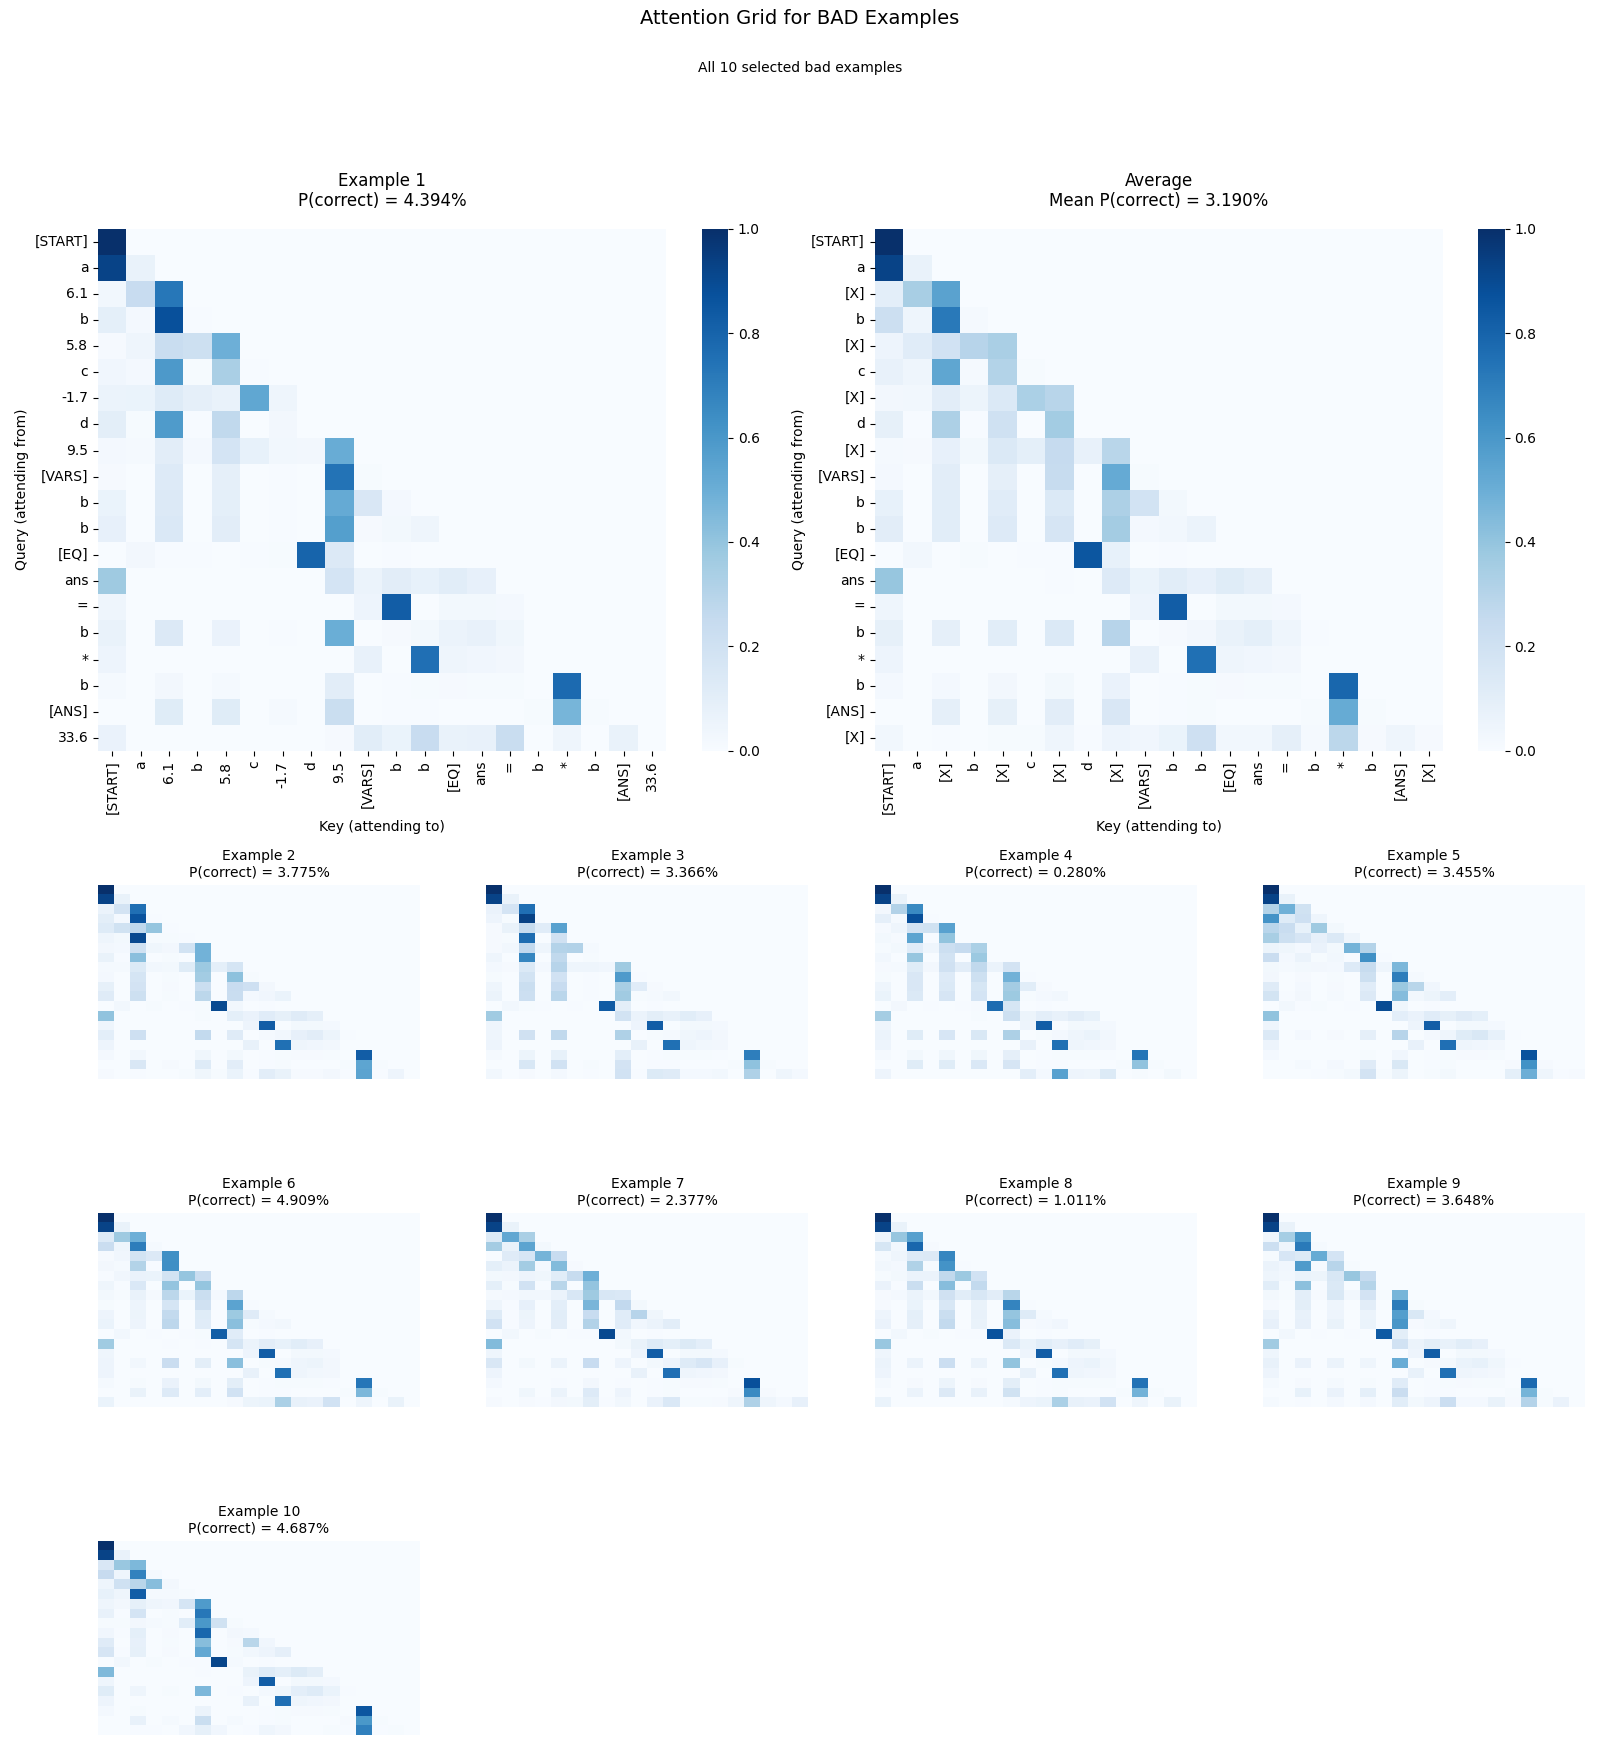
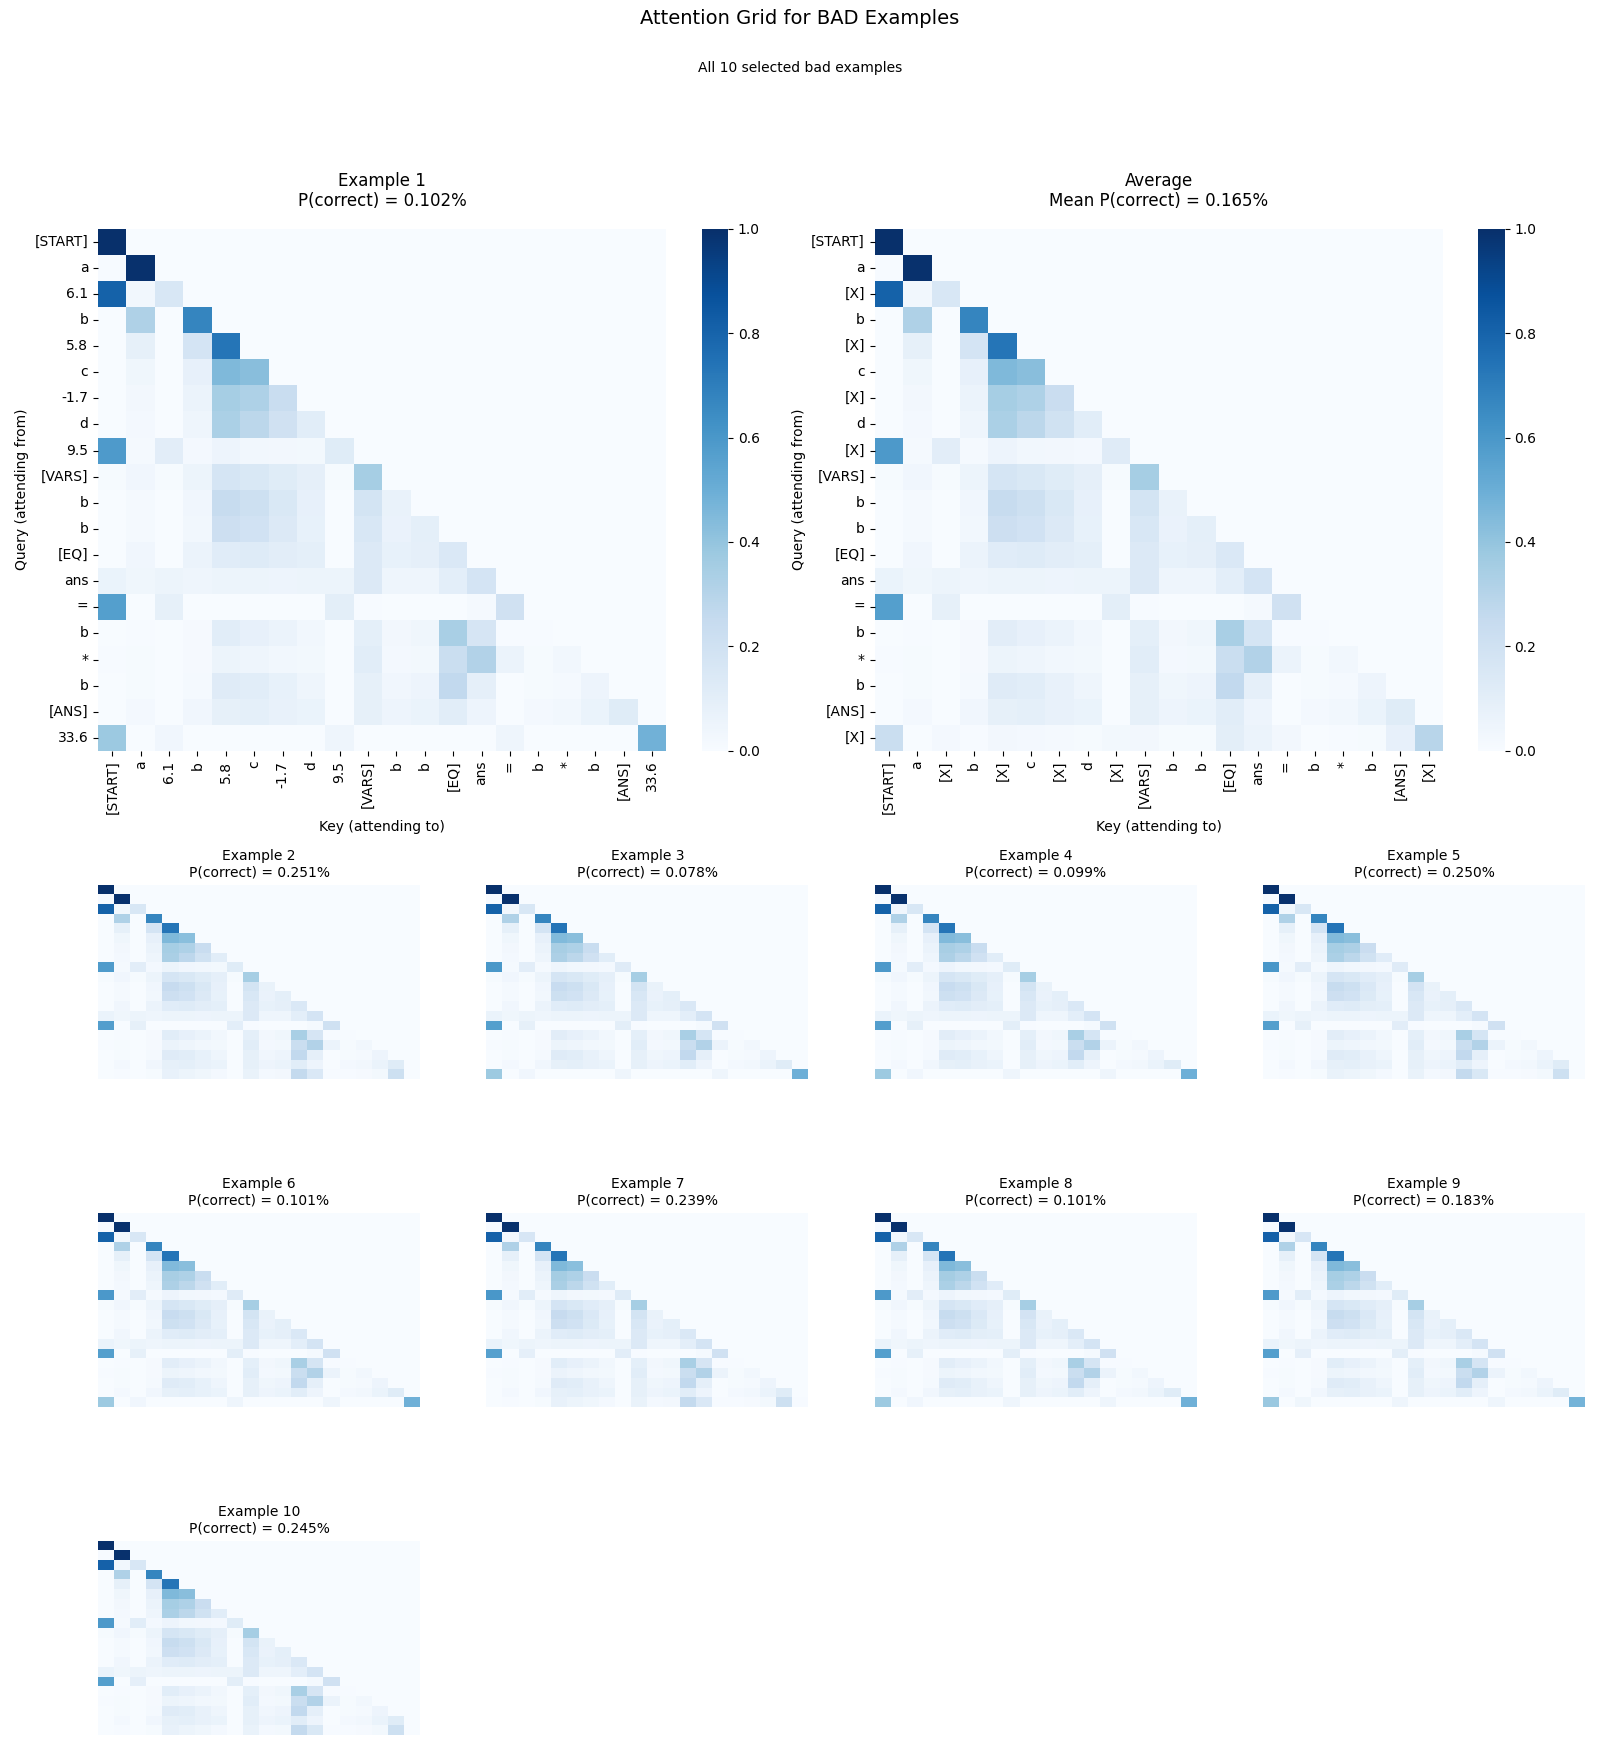
refactored into run_examples_and_plot

diff --git a/hw3/mathformer.py b/hw3/mathformer.py
@@ -687,6 +687,86 @@ def select_good_and_bad_examples(opt) -> tuple[list[int], list[int]]:
     return good, bad
 
 
+def run_examples_and_plot(
+    model,
+    opt,
+    mask,
+    example_indices: list[int],
+    example_kind: str,
+    include_top3: bool = False,
+):
+    print(f'{example_kind} Examples:')
+    avg = 0.0
+    token_labels = []
+    probabilities = []
+
+    last_10_scores.clear()
+
+    for i in example_indices:
+        trg = torch.zeros((1, opt.seqlen), dtype=torch.long)
+        ans = torch.zeros((1, opt.vocab_size), dtype=torch.float)
+        text = ''
+        for j in range(opt.seqlen):
+            trg[0, j] = opt.test[i * opt.seqlen + j]
+            if j == 19:
+                ans[0, trg[0, j]] = 1.0
+            text = decode_formula(opt, trg)
+
+        token_labels.append([opt.vocab[int(token_id)] for token_id in trg[0]])
+
+        trg = trg.cuda()
+        ans = ans.cuda()
+
+        [d_output, preds] = model(trg, mask)
+        logits = torch.exp(preds[:, 18, :])
+        numer = torch.sum(logits * ans, dim=1)
+        denom = torch.sum(logits, dim=1)
+        probs = numer / denom
+
+        if include_top3:
+            _, top3 = torch.topk(logits, k=3)
+            print(
+                '%s %7.3f%% %5s %5s %5s'
+                % (
+                    text,
+                    100.0 * probs[0].item(),
+                    opt.vocab[top3[0, 0]],
+                    opt.vocab[top3[0, 1]],
+                    opt.vocab[top3[0, 2]],
+                )
+            )
+        else:
+            print('%s %7.3f%%' % (text, 100.0 * probs[0].item()))
+
+        probabilities.append(100.0 * probs[0].item())
+        avg = avg + probs[0].item()
+
+    print(
+        '                                                                       Average: %7.3f%%'  # noqa: E501
+        % (100.0 * avg / float(len(example_indices)))
+    )
+    print(' ')
+
+    if last_scores is None or last_output is None or not token_labels:
+        raise RuntimeError('should be unreachable')
+
+    scores = [sc.detach().cpu().numpy() for sc in last_10_scores]
+    plot_attention_grid(
+        scores_list=scores,
+        token_labels=token_labels,
+        probabilities=probabilities,
+        title=f'Attention Grid for {example_kind} Examples',
+        subtitle=f'All 10 selected {example_kind.lower()} examples',
+    )
+    avg_prob = 100.0 * avg / float(len(example_indices))
+    plot_attention_average(
+        scores_list=scores,
+        token_labels=token_labels,
+        title=f'Average Attention Heatmap for {example_kind} Examples',
+        subtitle=f'Average of 10 examples (avg prob. of correct ans = {avg_prob:7.3f}%)',  # noqa: E501
+    )
+
+
 def example(model, opt):
     model.eval()
 
@@ -698,146 +778,27 @@ def example(model, opt):
     aa = opt.seqlen
     bb = 1
     opt.bb = bb
-    offsets = []
-    stride = int(len(opt.test) / bb)
-    while (stride % 20) > 0:
-        stride = stride - 1
-    for i in range(0, len(opt.test), stride):
-        offsets.append(i)
 
     nopeak_mask = np.triu(np.ones((bb, aa, aa), dtype=np.int32), k=1)
     mask = Variable(torch.from_numpy(nopeak_mask) == 0)
     mask = mask.cuda()
 
-    print('GOOD Examples:')
-    avg = 0.0
-    good_token_labels = []
-    good_example_text = []
-    good_probabilities = []
-    for i in good:
-        trg = torch.zeros((bb, aa), dtype=torch.long)
-        ans = torch.zeros((bb, opt.vocab_size), dtype=torch.float)
-        text = ''
-        for j in range(aa):
-            trg[0, j] = opt.test[i * aa + j]
-            if j == 19:
-                ans[0, trg[0, j]] = 1.0
-            text = decode_formula(opt, trg)
-        good_token_labels.append(
-            [opt.vocab[int(token_id)] for token_id in trg[0]]
-        )
-        good_example_text.append(text)
-        trg = trg.cuda()
-        ans = ans.cuda()
-
-        [d_output, preds] = model(trg, mask)
-        logits = torch.exp(preds[:, 18, :])
-        numer = logits * ans
-        numer = torch.sum(numer, dim=1)
-        denom = torch.sum(logits, dim=1)
-        probs = numer / denom
-        print('%s %7.3f%%' % (text, 100.0 * probs[0].item()))
-        good_probabilities.append(100.0 * probs[0].item())
-        avg = avg + probs[0].item()
-    print(
-        '                                                                       Average: %7.3f%%'  # noqa: E501
-        % (100.0 * avg / float(len(good)))
+    run_examples_and_plot(
+        model=model,
+        opt=opt,
+        mask=mask,
+        example_indices=good,
+        example_kind='GOOD',
+        include_top3=False,
     )
-    print(' ')
-
-    if (
-        last_scores is not None
-        and last_output is not None
-        and good_token_labels
-        and good_example_text
-    ):
-        scores = [sc.detach().cpu().numpy() for sc in last_10_scores]
-        plot_attention_grid(
-            scores_list=scores,
-            token_labels=good_token_labels,
-            probabilities=good_probabilities,
-            title='Attention Grid for GOOD Examples',
-            subtitle='All 10 selected good examples',
-        )
-        avg_prob = 100.0 * avg / float(len(good))
-        plot_attention_average(
-            scores_list=scores,
-            token_labels=good_token_labels,
-            title='Average Attention Heatmap for GOOD Examples',
-            subtitle=f'Average of 10 examples (avg prob. of correct ans = {avg_prob:7.3f}%)',  # noqa: E501
-        )
-    else:
-        raise RuntimeError('should be unreachable')
-
-    print('BAD Examples:')
-    avg = 0.0
-    bad_token_labels = []
-    bad_example_text = []
-    bad_probabilities = []
-    for i in bad:
-        trg = torch.zeros((bb, aa), dtype=torch.long)
-        ans = torch.zeros((bb, opt.vocab_size), dtype=torch.float)
-        text = ''
-        for j in range(aa):
-            trg[0, j] = opt.test[i * aa + j]
-            if j == 19:
-                ans[0, trg[0, j]] = 1.0
-            text = decode_formula(opt, trg)
-        bad_token_labels.append(
-            [opt.vocab[int(token_id)] for token_id in trg[0]]
-        )
-        bad_example_text.append(text)
-        trg = trg.cuda()
-        ans = ans.cuda()
-
-        [d_output, preds] = model(trg, mask)
-        logits = torch.exp(preds[:, 18, :])
-        numer = logits * ans
-        numer = torch.sum(numer, dim=1)
-        denom = torch.sum(logits, dim=1)
-        probs = numer / denom
-        top3_values, top3 = torch.topk(logits, k=3)
-        print(
-            '%s %7.3f%% %5s %5s %5s'
-            % (
-                text,
-                100.0 * probs[0].item(),
-                opt.vocab[top3[0, 0]],
-                opt.vocab[top3[0, 1]],
-                opt.vocab[top3[0, 2]],
-            )
-        )
-        bad_probabilities.append(100.0 * probs[0].item())
-        avg = avg + probs[0].item()
-    print(
-        '                                                                       Average: %7.3f%%'  # noqa: E501
-        % (100.0 * avg / float(len(bad)))
+    run_examples_and_plot(
+        model=model,
+        opt=opt,
+        mask=mask,
+        example_indices=bad,
+        example_kind='BAD',
+        include_top3=True,
     )
-    print(' ')
-
-    if (
-        last_scores is not None
-        and last_output is not None
-        and bad_token_labels
-        and bad_example_text
-    ):
-        scores = [sc.detach().cpu().numpy() for sc in last_10_scores]
-        plot_attention_grid(
-            scores_list=scores,
-            token_labels=bad_token_labels,
-            probabilities=bad_probabilities,
-            title='Attention Grid for BAD Examples',
-            subtitle='All 10 selected bad examples',
-        )
-        avg_prob = 100.0 * avg / float(len(bad))
-        plot_attention_average(
-            scores_list=scores,
-            token_labels=bad_token_labels,
-            title='Average Attention Heatmap for BAD Examples',
-            subtitle=f'Average of 10 examples (avg prob. of correct ans = {avg_prob:7.3f}%)',  # noqa: E501
-        )
-    else:
-        raise RuntimeError('should be unreachable')
 
     if opt.show_plots:
         plt.show()

diff --git a/hw3/README.md b/hw3/README.md
@@ -34,7 +34,7 @@ Done; see CLI output from command above.
 
 ### d. Interpret these results to explain the observed differences in performance between “good” and “bad” observation subsets
 
-Overall, the heatmaps look surprisingly similar. I was expecting the attention maps to be substantially different between the two, and for the bad results to show extremely disordered. However, there is one key difference that points to a specific pathology in (at least most) bad results:
+Overall, the heatmaps look surprisingly similar. I was expecting the attention maps to be substantially different between the two, and for the bad results to show extremely disordered attention across the board. However, there is only one obvious difference that points to a specific pathology in (at least most) bad results:
 
 Good results focus attention primarily on input `b`, while bad results focus attention on other operands or diffusely across some set of them without particular focus on `b` (or, in the case of Example 5, on no operands at all). Other operands are irrelevant to the `b * b` problem, so they should be ignored. 
 Interestingly, although all successful answers focus mostly on `b` of the 4, many include additional focus on a 2nd operand. This makes sense, as most of the training data contains binary operations on 2 different operands rather than the same one twice.
